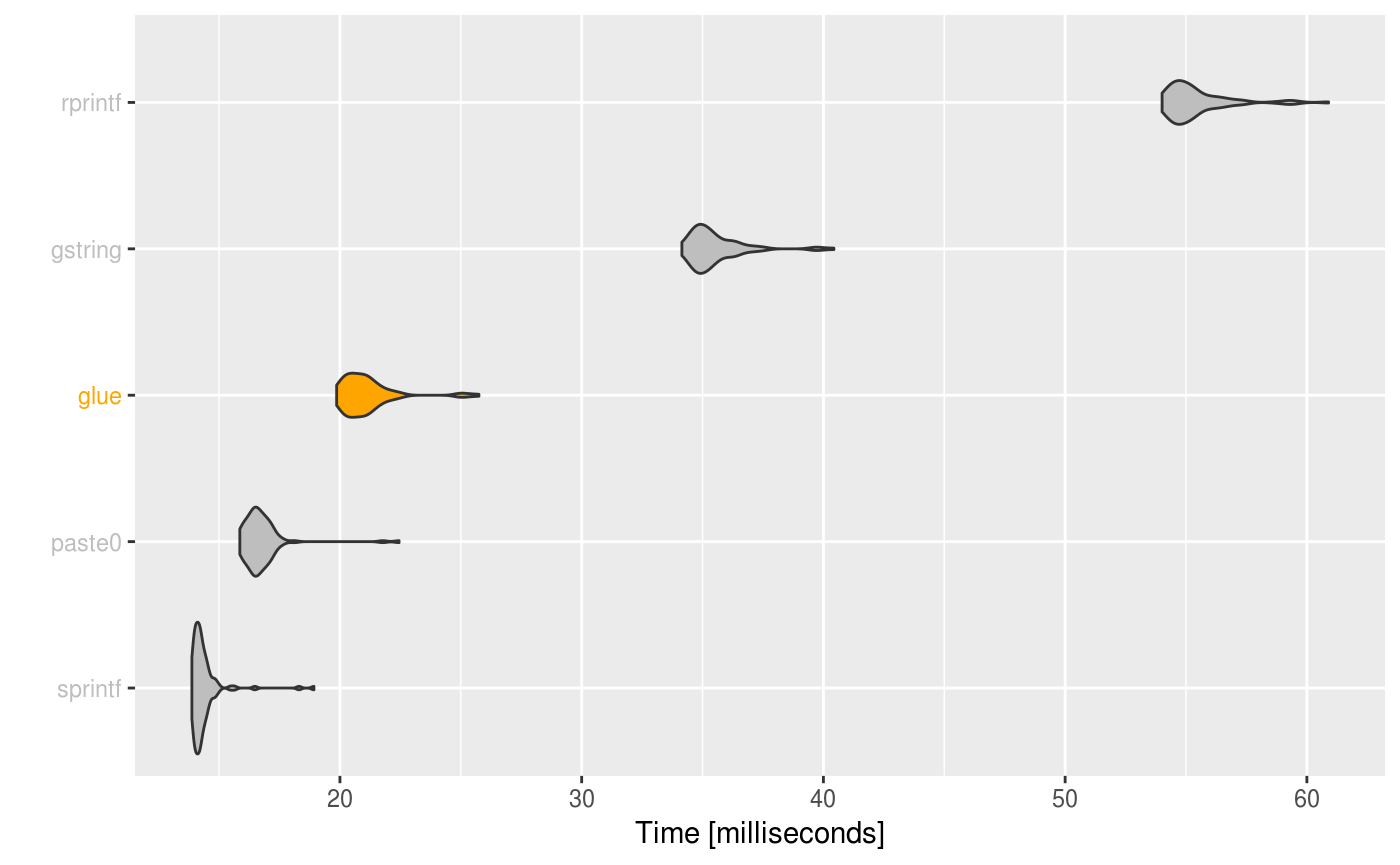
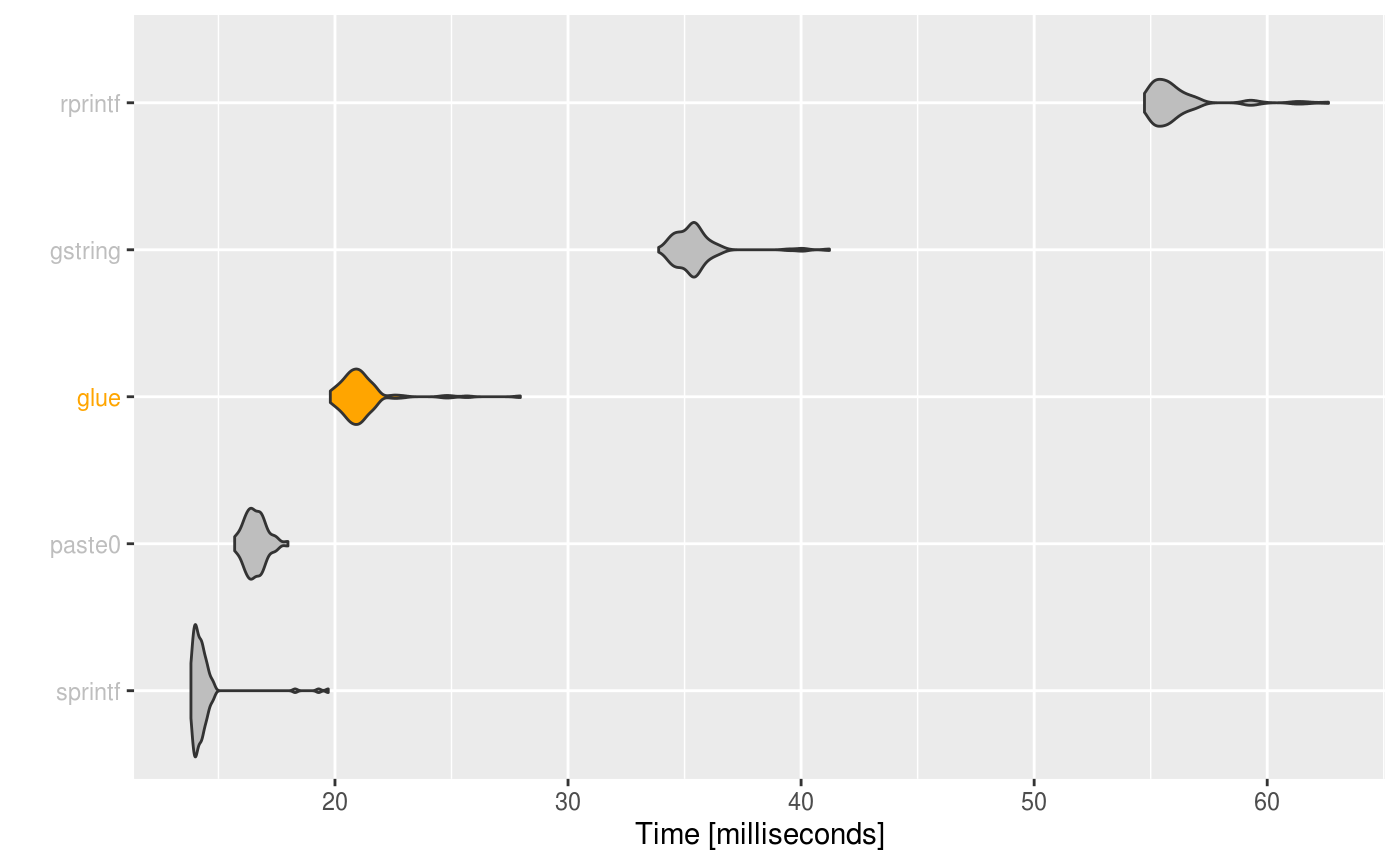
Built site for glue: 1.3.1.9000@423b7e5

diff --git a/dev/articles/speed.html b/dev/articles/speed.html
@@ -146,12 +146,12 @@
 <a class="sourceLine" id="cb1-13" data-line-number="13"><span class="kw"><a href="https://www.rdocumentation.org/packages/base/topics/print">print</a></span>(<span class="dt">unit =</span> <span class="st">"eps"</span>, <span class="dt">order =</span> <span class="st">"median"</span>, <span class="dt">signif =</span> <span class="dv">4</span>, simple)</a>
 <a class="sourceLine" id="cb1-14" data-line-number="14"><span class="co">#&gt; Unit: evaluations per second</span></a>
 <a class="sourceLine" id="cb1-15" data-line-number="15"><span class="co">#&gt;        expr       min     lq   mean median     uq     max neval</span></a>
-<a class="sourceLine" id="cb1-16" data-line-number="16"><span class="co">#&gt;     rprintf    248.50   1806   1883   1908   2004    2170   100</span></a>
-<a class="sourceLine" id="cb1-17" data-line-number="17"><span class="co">#&gt;     gstring     18.05   2121   2188   2218   2321    2688   100</span></a>
-<a class="sourceLine" id="cb1-18" data-line-number="18"><span class="co">#&gt;  str_interp    830.30   2912   3213   3268   3459    4400   100</span></a>
-<a class="sourceLine" id="cb1-19" data-line-number="19"><span class="co">#&gt;        glue   1031.00   5809   6553   6260   7118   11150   100</span></a>
-<a class="sourceLine" id="cb1-20" data-line-number="20"><span class="co">#&gt;      paste0 129200.00 238200 421300 436600 525900  903300   100</span></a>
-<a class="sourceLine" id="cb1-21" data-line-number="21"><span class="co">#&gt;     sprintf  34020.00 335000 564000 466600 636400 1481000   100</span></a>
+<a class="sourceLine" id="cb1-16" data-line-number="16"><span class="co">#&gt;     rprintf    278.90   1827   1901   1894   2002    2222   100</span></a>
+<a class="sourceLine" id="cb1-17" data-line-number="17"><span class="co">#&gt;     gstring     18.84   2140   2242   2240   2358    2779   100</span></a>
+<a class="sourceLine" id="cb1-18" data-line-number="18"><span class="co">#&gt;  str_interp    172.20   2894   3117   3101   3368    4207   100</span></a>
+<a class="sourceLine" id="cb1-19" data-line-number="19"><span class="co">#&gt;        glue   1168.00   5934   6614   6412   7038   10610   100</span></a>
+<a class="sourceLine" id="cb1-20" data-line-number="20"><span class="co">#&gt;      paste0 121600.00 352000 455400 440500 546500  892900   100</span></a>
+<a class="sourceLine" id="cb1-21" data-line-number="21"><span class="co">#&gt;     sprintf  86690.00 344500 530600 504900 615200 1374000   100</span></a>
 <a class="sourceLine" id="cb1-22" data-line-number="22"></a>
 <a class="sourceLine" id="cb1-23" data-line-number="23"><span class="kw">plot_comparison</span>(simple)</a></code></pre></div>
 <p><img src="speed_files/figure-html/unnamed-chunk-1-1.png" width="700"></p>
@@ -179,11 +179,11 @@
 <a class="sourceLine" id="cb2-12" data-line-number="12"><span class="kw"><a href="https://www.rdocumentation.org/packages/base/topics/print">print</a></span>(<span class="dt">unit =</span> <span class="st">"ms"</span>, <span class="dt">order =</span> <span class="st">"median"</span>, <span class="dt">signif =</span> <span class="dv">4</span>, vectorized)</a>
 <a class="sourceLine" id="cb2-13" data-line-number="13"><span class="co">#&gt; Unit: milliseconds</span></a>
 <a class="sourceLine" id="cb2-14" data-line-number="14"><span class="co">#&gt;     expr   min    lq  mean median    uq   max neval</span></a>
-<a class="sourceLine" id="cb2-15" data-line-number="15"><span class="co">#&gt;  sprintf 13.88 14.03 14.37  14.20 14.41 18.92   100</span></a>
-<a class="sourceLine" id="cb2-16" data-line-number="16"><span class="co">#&gt;   paste0 15.86 16.29 16.72  16.57 16.94 22.45   100</span></a>
-<a class="sourceLine" id="cb2-17" data-line-number="17"><span class="co">#&gt;     glue 19.86 20.38 21.09  20.84 21.35 25.75   100</span></a>
-<a class="sourceLine" id="cb2-18" data-line-number="18"><span class="co">#&gt;  gstring 34.15 34.80 35.50  35.20 35.84 40.43   100</span></a>
-<a class="sourceLine" id="cb2-19" data-line-number="19"><span class="co">#&gt;  rprintf 54.01 54.56 55.40  55.02 55.74 60.90   100</span></a>
+<a class="sourceLine" id="cb2-15" data-line-number="15"><span class="co">#&gt;  sprintf 13.82 14.00 14.34  14.17 14.36 19.71   100</span></a>
+<a class="sourceLine" id="cb2-16" data-line-number="16"><span class="co">#&gt;   paste0 15.70 16.25 16.58  16.54 16.83 17.98   100</span></a>
+<a class="sourceLine" id="cb2-17" data-line-number="17"><span class="co">#&gt;     glue 19.80 20.55 21.12  20.94 21.35 27.95   100</span></a>
+<a class="sourceLine" id="cb2-18" data-line-number="18"><span class="co">#&gt;  gstring 33.89 34.79 35.44  35.33 35.66 41.22   100</span></a>
+<a class="sourceLine" id="cb2-19" data-line-number="19"><span class="co">#&gt;  rprintf 54.73 55.22 56.11  55.68 56.30 62.63   100</span></a>
 <a class="sourceLine" id="cb2-20" data-line-number="20"></a>
 <a class="sourceLine" id="cb2-21" data-line-number="21"><span class="kw">plot_comparison</span>(vectorized, <span class="dt">log =</span> <span class="ot">FALSE</span>)</a></code></pre></div>
 <p><img src="speed_files/figure-html/unnamed-chunk-2-1.png" width="700"></p>

diff --git a/dev/reference/glue.html b/dev/reference/glue.html
@@ -233,7 +233,11 @@ template with <code><a href='trim.html'>trim()</a></code> or not.</p></td>
   <span class='kw'>name</span> <span class='kw'>=</span> <span class='st'>"Joe"</span>,
   <span class='kw'>age</span> <span class='kw'>=</span> <span class='fl'>40</span>,
   <span class='kw'>anniversary</span> <span class='kw'>=</span> <span class='fu'><a href='https://www.rdocumentation.org/packages/base/topics/as.Date'>as.Date</a></span>(<span class='st'>"2001-10-12"</span>))</div><div class='output co'>#&gt; My name is Joe, my age next year is 41, my anniversary is Friday, October 12, 2001.</div><div class='input'>
-
+<span class='co'># `glue()` can also be used in user defined functions</span>
+<span class='no'>intro</span> <span class='kw'>&lt;-</span> <span class='kw'>function</span>(<span class='no'>name</span>, <span class='no'>profession</span>, <span class='no'>country</span>){
+  <span class='fu'>glue</span>(<span class='st'>"My name is {name}, a {profession}, from {country}"</span>)
+}
+<span class='fu'>intro</span>(<span class='st'>"Shelmith"</span>,<span class='st'>"Senior Data Analyst"</span>,<span class='st'>"Kenya"</span>)</div><div class='output co'>#&gt; My name is Shelmith, a Senior Data Analyst, from Kenya</div><div class='input'><span class='fu'>intro</span>(<span class='st'>"Cate"</span>,<span class='st'>"Data Scientist"</span>,<span class='st'>"Kenya"</span>)</div><div class='output co'>#&gt; My name is Cate, a Data Scientist, from Kenya</div><div class='input'>
 <span class='co'># `glue_data()` is useful in magrittr pipes</span>
 <span class='fu'><a href='https://www.rdocumentation.org/packages/base/topics/library'>library</a></span>(<span class='no'>magrittr</span>)</div><div class='output co'>#&gt; <span class='message'></span>
 #&gt; <span class='message'>Attaching package: ‘magrittr’</span></div><div class='output co'>#&gt; <span class='message'>The following objects are masked from ‘package:testthat’:</span>
